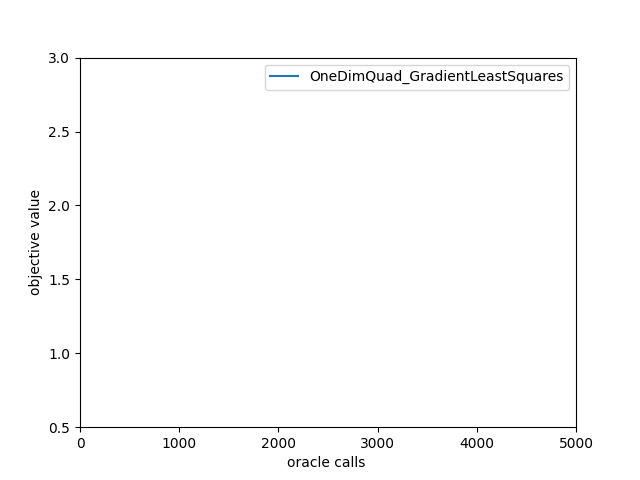
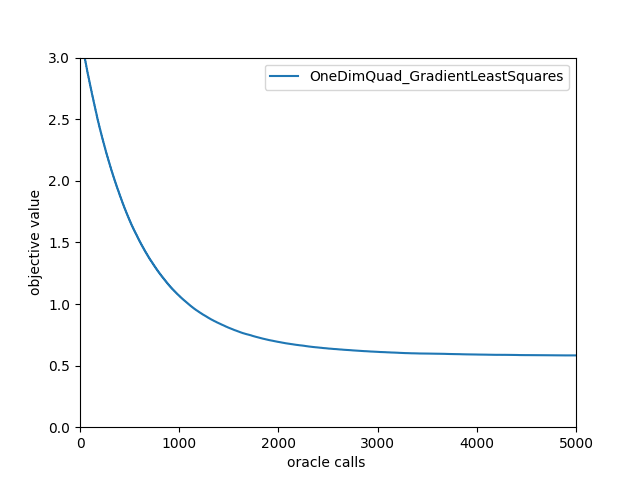
add norm of grad plotting

diff --git a/optimization/utils/ObjectiveFunction.py b/optimization/utils/ObjectiveFunction.py
@@ -6,6 +6,10 @@ from abc import ABC, abstractmethod
 
 class ObjectiveFunction(ABC):
 
+    def __init__(self):
+        self.log_s1=None
+        self.log_s2=None
+
     @abstractmethod
     def forward(self,
                 x: np.ndarray,
@@ -42,6 +46,36 @@ class ObjectiveFunction(ABC):
                        ) -> int:
         pass
 
+    @abstractmethod
+    def get_samples(self,
+                    n1: int,
+                    n2: int) -> Tuple[np.ndarray, np.ndarray]:
+        """
+            get batch samples
+            Args:
+                n1: batch size for gradient
+                n2: batch size for hessian
+
+            Returns:
+                Tuple[np.ndarray, np.ndarray]
+        """
+        pass
+
+    @abstractmethod
+    def get_log_samples(self,
+                        n1: int,
+                        n2: int) -> Tuple[np.ndarray, np.ndarray]:
+        """
+            get batch samples
+            Args:
+                n1: batch size for gradient
+                n2: batch size for hessian
+
+            Returns:
+                Tuple[np.ndarray, np.ndarray]
+        """
+        pass
+
     def hessian_vector(self, x_t, v, z, r):
         """
         compute f"(x).d ~ (f'(x+r.v)-f'(x-r.v))/(2*r)
@@ -56,35 +90,3 @@ class ObjectiveFunction(ABC):
         """
         return (self.gradient(x_t + r * v, z) -
                 self.gradient(x_t - r * v, z)) / (2 * r)
-
-    def get_samples(self,
-                    n1: int,
-                    n2: int) -> Tuple[np.ndarray, np.ndarray]:
-        """
-            get batch samples
-            Args:
-                n1: batch size for gradient
-                n2: batch size for hessian
-
-            Returns:
-                Tuple[np.ndarray, np.ndarray]
-        """
-        s1 = np.random.normal(1, 0.1, (n1, self.get_sample_dim()))
-        s2 = np.random.normal(1, 0.1, (n2, self.get_sample_dim()))
-        return s1, s2
-
-    def get_log_samples(self,
-                    n1: int,
-                    n2: int) -> Tuple[np.ndarray, np.ndarray]:
-        """
-            get batch samples
-            Args:
-                n1: batch size for gradient
-                n2: batch size for hessian
-
-            Returns:
-                Tuple[np.ndarray, np.ndarray]
-        """
-        s1 = np.random.RandomState(seed=34).normal(1, 2, (n1, self.get_sample_dim()))
-        s2 = np.random.RandomState(seed=34).normal(1, 2, (n2, self.get_sample_dim()))
-        return s1, s2

diff --git a/optimization/TestMain.py b/optimization/TestMain.py
@@ -41,22 +41,42 @@ def plot_objectiveValue_log(objective_values, plot_name):
         plt.savefig("plots/" + plot_name)
 
 
-def plot_grad_log(grads, true_grads, plot_name):
+def plot_grad_log(grad_norm, plot_name):
     if not cumulative:
         plt.clf()
     else:
         plot_names.append(plot_name)
 
+    plt.plot(range(len(grad_norm)),
+             grad_norm)
+
+    plt.ylim([0, high_bound_y])
+    plt.xlabel('iteration')
+    plt.ylabel('Norm')
+
+    plt.legend(["grad_norm",], loc='upper right')
+    if not cumulative:
+        plt.savefig("plots/" + plot_name)
+
+
+def plot_grad_log_tt(estimated_grads,grads, plot_name):
+    if not cumulative:
+        plt.clf()
+    else:
+        plot_names.append(plot_name)
+
+    plt.plot(range(len(estimated_grads)),
+             estimated_grads)
     plt.plot(range(len(grads)),
              grads)
 
-    plt.plot(range(len(true_grads)),
-             true_grads)
 
-    plt.xlabel('grad ')
-    plt.ylabel('objective value')
 
-    plt.legend(["estimated_grad","true_grad"], loc='upper right')
+
+    plt.xlabel('iteration')
+    plt.ylabel('gradiant')
+
+    plt.legend(["estimated_grad","true_grad",], loc='upper right')
     if not cumulative:
         plt.savefig("plots/" + plot_name)
 
@@ -134,13 +154,14 @@ def test_07():
     print("running test 7...")
 
     oracle = MeanOracle(objective_function=OneDimQuad(), )
-    ms = GradientLeastSquares(oracle=oracle, j1=10000, j2=1, l=1, alpha=0.99, max_iter=4000, lr=1e-3 )
+    ms = GradientLeastSquares(oracle=oracle, j1=1, j2=1, l=1, alpha=0.99, max_iter=4000, lr=1e-3 )
     thetas, estimated_grads, true_grads = ms.run(np.random.RandomState(seed=45).rand(1))
-    objective_values = oracle.objective_values
 
     # plot the objective value list
     plot_objectiveValue_log(oracle.objective_values, "OneDimQuad_GradientLeastSquares")
-    plot_grad_log(estimated_grads, true_grads, "oneDimQuad_GradientLeastSquaresVar" )
+    plot_grad_log(oracle.estimated_norm_gradients, "normOneDimQuad_GradientLeastSquares" )
+
+    # plot_grad_log_tt(estimated_grads, true_grads, "gradOneDimQuad_GradientLeastSquares" )
     print("best parameters", thetas, '\n')
 
 
@@ -148,7 +169,7 @@ cumulative = False
 high_bound_x = 5000
 high_bound_y = 3
 low_bound_x = -1
-low_bound_y = 0.5
+low_bound_y = 0
 
 # test_01()
 # test_03()

diff --git a/optimization/solvers/GradientLeastSquares.py b/optimization/solvers/GradientLeastSquares.py
@@ -41,7 +41,6 @@ class GradientLeastSquares(Solver):
             # best_model_idx = np.argmin(val_loss)
         return models[-1]
 
-
     def get_x_js(self, x_t):
         """
         Args:
@@ -51,12 +50,12 @@ class GradientLeastSquares(Solver):
          a matrix with the shape of (self.j1, x_t.shape[0]) OR (self.j1, param_num)
 
         """
-        return x_t + 0.01*(np.random.normal(0, 0.01,(self.j1, x_t.shape[0])))
+        return x_t +  np.random.normal(0, 0.01, (self.j1, x_t.shape[0]))
 
     def run(self, x_t, **kwargs):
         print("GradientLeastSquares optimizing... ")
-        grads=[]
-        true_grad=[]
+        grads = []
+        true_grad = []
         for i in range(self.max_iter):
 
             x_js = self.get_x_js(x_t)
@@ -69,8 +68,10 @@ class GradientLeastSquares(Solver):
                 self.oracle.update_sample(x_t)
                 objective_value_x_j, _, _, _ = self.oracle.compute_oracle(x_js[j], )
                 objective_value_x_t, _, _, _ = self.oracle.compute_oracle(x_t, )
-                lips_sum += (objective_value_x_j - objective_value_x_t - self.l /2 * np.linalg.norm(x_js[j] - x_t,ord=2) ** 2 )*(x_js[j]-x_t)
-            b= (self.alpha / self.j1)*lips_sum
+                lips_sum += (objective_value_x_j - objective_value_x_t - self.l / 2 * np.linalg.norm(x_js[j] - x_t,
+                                                                                                     ord=2) ** 2) * (
+                                    x_js[j] - x_t)
+            b = (self.alpha / self.j1) * lips_sum
 
             # compute mean of gradient estimate of the right hand side of the equation Ad=c
             gradient_sum = np.zeros(x_t.shape)
@@ -85,8 +86,8 @@ class GradientLeastSquares(Solver):
             # Train the model using the training sets
             # regr.fit(A, b)
             delta = np.linalg.lstsq(A, b, rcond=None)[0]
-            grads.append(delta[0])
-            true_grad.append(2*x_t[0]+1)
+            grads.append(np.abs(delta[0]))
+            true_grad.append(2 * x_t[0] + 1)
 
             x_t = x_t - self.lr * delta
         return x_t, grads, true_grad

diff --git a/optimization/utils/StochasticOracle.py b/optimization/utils/StochasticOracle.py
@@ -29,6 +29,7 @@ class StochasticOracle(ABC):
         self.n1 = None
         self.n2 = None
         self.objective_values = []
+        self.estimated_norm_gradients = []
 
     def set_oracle_sample_size(self,
                                n1: int,
@@ -66,5 +67,6 @@ class StochasticOracle(ABC):
             raise ValueError('Please set oracle sample size n1 and n2!')
 
         self.s1, self.s2 = self.objective_function.get_samples(self.n1, self.n2)
-        # tem_s1, _ = self.objective_function.get_log_samples(2000, 0)
-        # self.objective_values += [self.objective_function.forward(x_t, tem_s1).mean(axis=0)] * (self.n1+self.n2)
+        tem_s1, _ = self.objective_function.get_log_samples(100, 0)
+        self.estimated_norm_gradients += [np.linalg.norm(self.objective_function.gradient(x_t, tem_s1).mean(axis=0), ord=2)] * (self.n1+self.n2)
+        self.objective_values += [self.objective_function.forward(x_t, tem_s1).mean(axis=0)] * (self.n1+self.n2)

diff --git a/optimization/test_modules.py b/optimization/test_modules.py
@@ -86,6 +86,22 @@ class OneDimQuad(ObjectiveFunction):
     # def hessian_vector(self, x_t, v, z, r):
     #     return np.matmul(np.expand_dims(2 * z[:, 0], axis=1), np.expand_dims(v, axis=1))
 
+    def get_samples(self,
+                    n1: int,
+                    n2: int):
+
+        s1 = np.random.normal(1, 0.1, (n1, self.get_sample_dim()))
+        s2 = np.random.normal(1, 0.1, (n2, self.get_sample_dim()))
+        return s1, s2
+
+    def get_log_samples(self,
+                        n1: int,
+                        n2: int):
+
+        self.log_s1 = np.random.RandomState(seed=56).normal(1, 2, (n1, self.get_sample_dim()))
+        self.log_s2 = np.random.RandomState(seed=56).normal(1, 2, (n2, self.get_sample_dim()))
+        return self.log_s1, self.log_s2
+
 
 class ThreeDimQuad(ObjectiveFunction):
 
